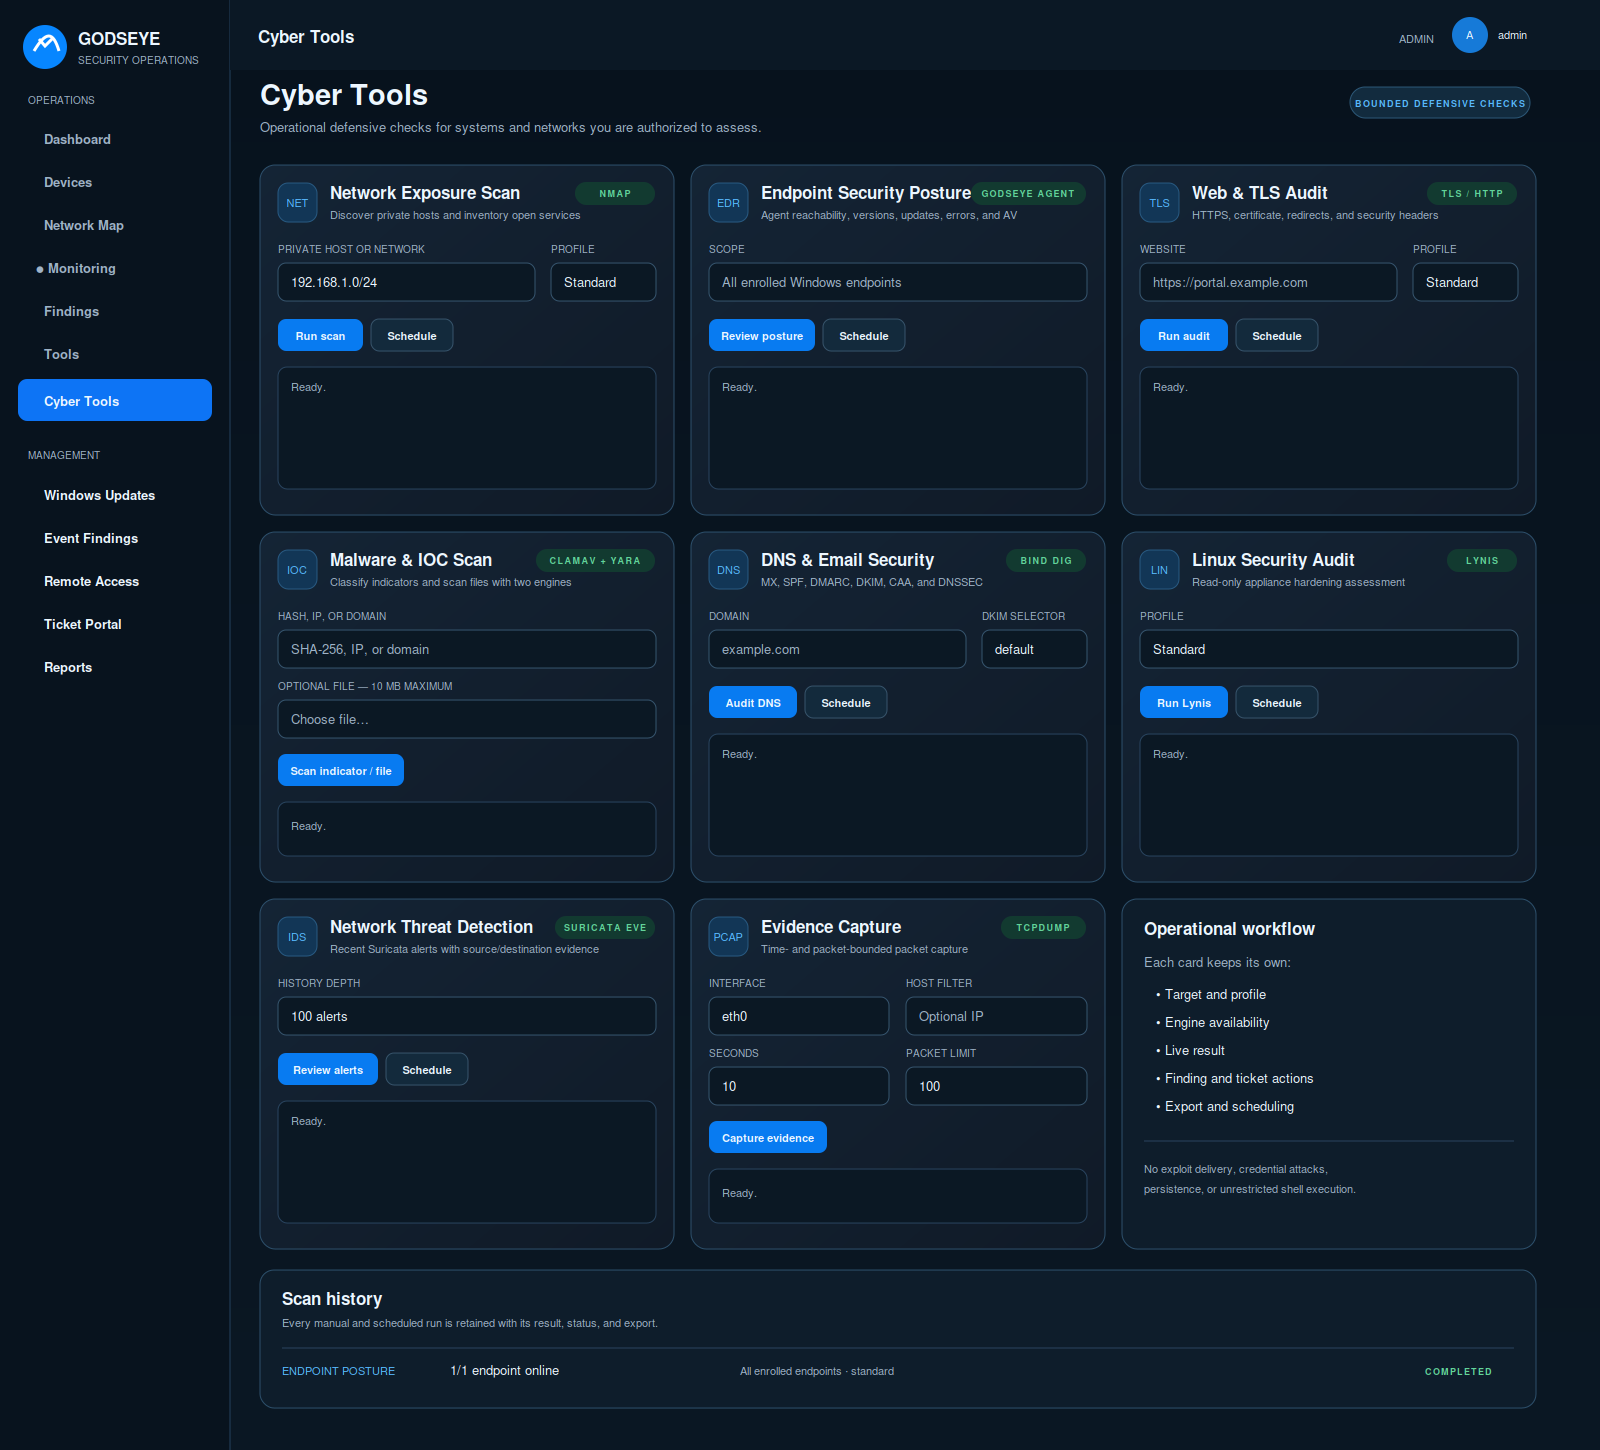
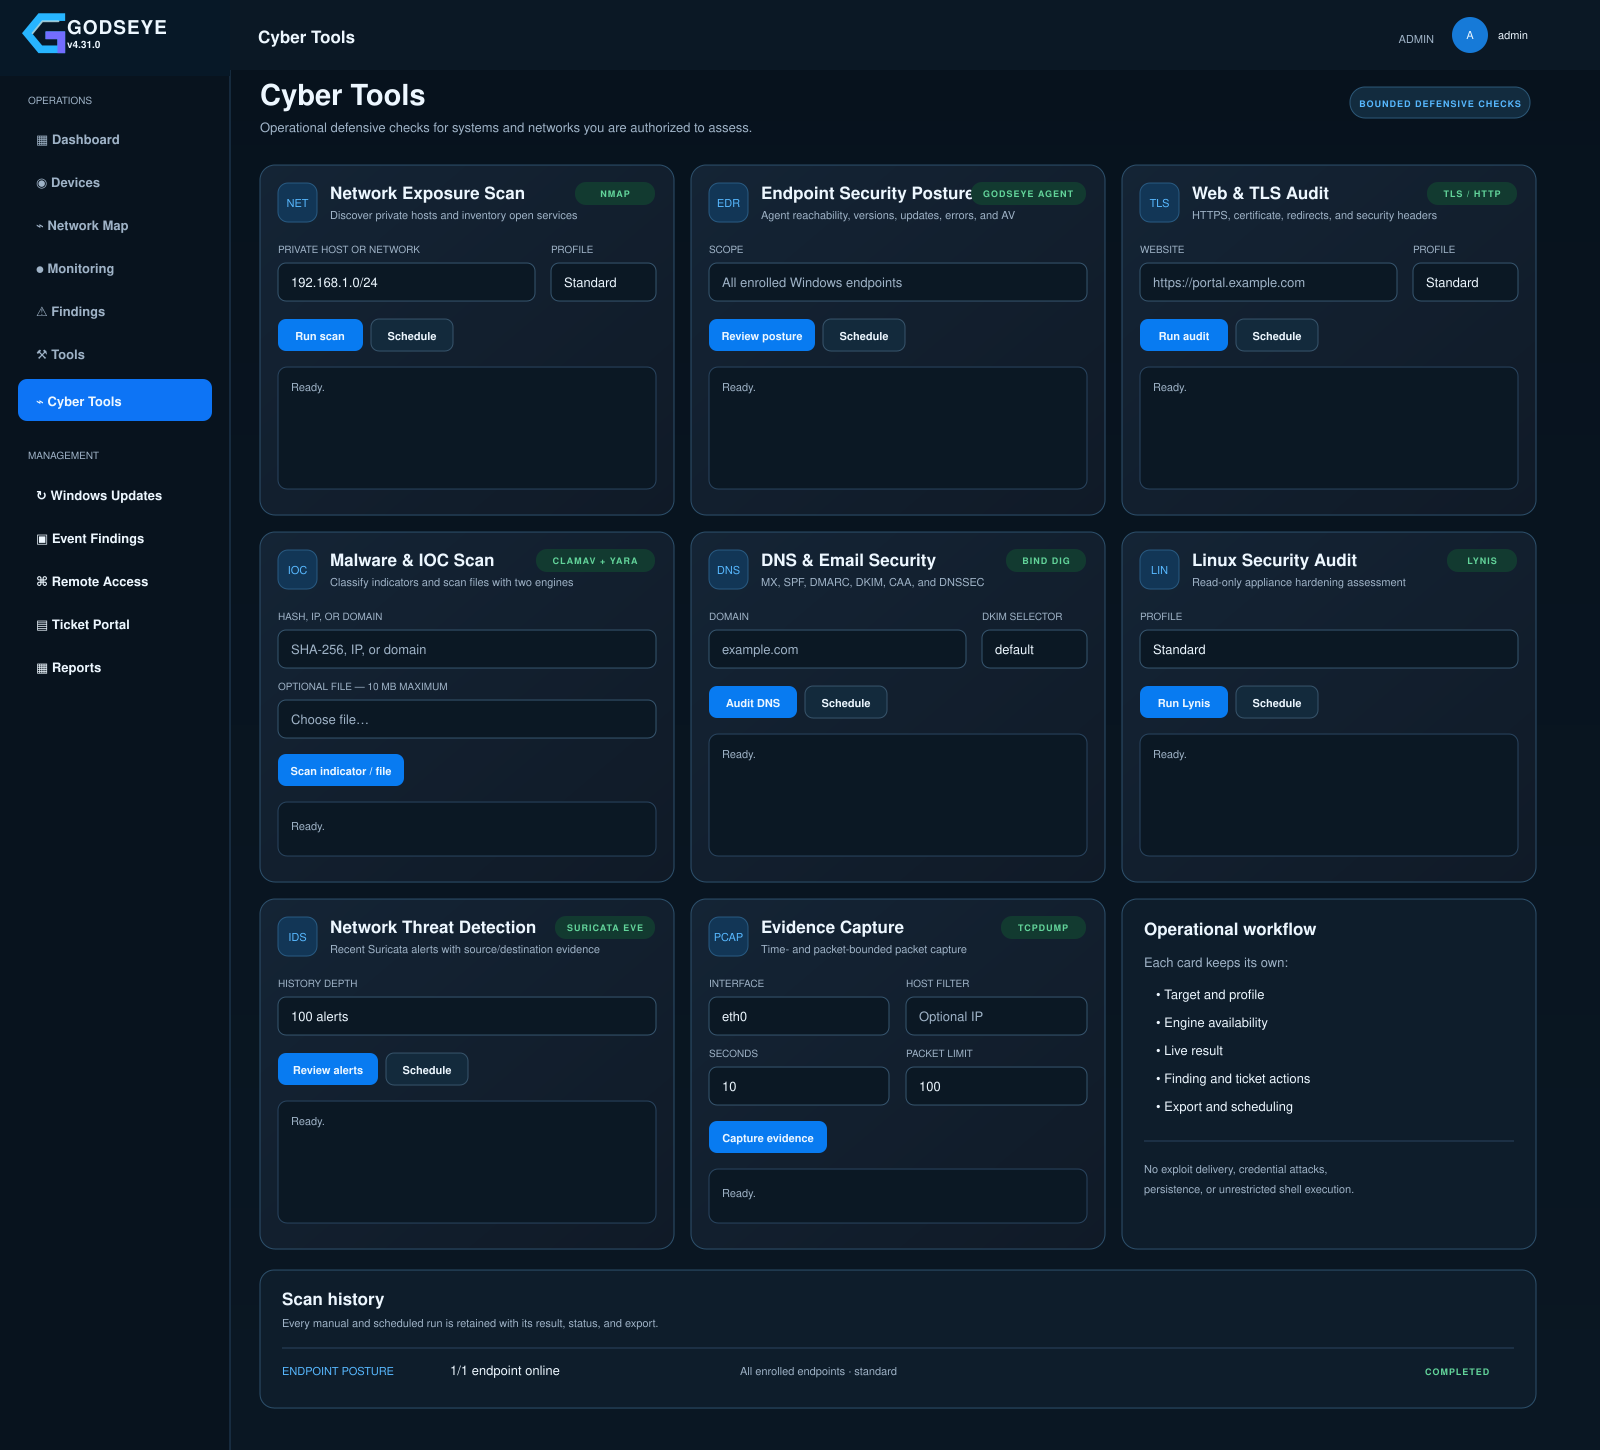
Refresh GODSEYE screenshot branding and Cyber Tools guide

diff --git a/tests/test_v430_ui_release.py b/tests/test_v430_ui_release.py
@@ -3,21 +3,19 @@ from pathlib import Path
 ROOT = Path(__file__).resolve().parents[1]
 
 
-def test_readme_uses_actual_v430_screenshot_gallery():
+def test_readme_uses_current_branded_screenshot_gallery():
     readme = (ROOT / 'README.md').read_text(encoding='utf-8')
     shots = [
-        'v430-dashboard.png',
-        'v430-devices.png',
-        'v430-calendar.png',
-        'v430-email.png',
-        'v430-system-health.png',
-        'v430-remote-access.png',
+        'v431-dashboard-map-logo.png',
+        'v431-cyber-tools-overview.png',
+        'v431-cyber-tools-working.png',
     ]
     for shot in shots:
         assert f'docs/screenshots/{shot}' in readme
         path = ROOT / 'docs' / 'screenshots' / shot
         assert path.exists() and path.stat().st_size > 20_000
-    assert 'captured from the actual v4.30 application' in readme
+    assert 'running-app capture' in readme
+    assert 'UI previews' in readme
 
 
 def test_readme_release_zip_install_and_first_run_admin_are_current():

diff --git a/README.md b/README.md
@@ -4,45 +4,36 @@
 
 GODSEYE v4.31 keeps the v4.30 interface and adds a redesigned Quick Assist-style Remote Access handshake. The Windows Agent retains token enrollment and Event Findings collection while handing approved screen sharing to a dedicated interactive-session helper. Remote sessions begin view-only and require a separate local-user approval before mouse or keyboard control is enabled.
 
-![GODSEYE v4.30 Dashboard](docs/screenshots/v430-dashboard.png)
+![GODSEYE v4.31 Dashboard with the approved G logo](docs/screenshots/v431-dashboard-map-logo.png)
 
 ## v4.31 interface
 
-The v4.30 interface uses the dark GODSEYE visual system across the real application. The five approved visual references are kept in `docs/design-reference/`; the images embedded here were captured from the running application with demonstration data. The shared masthead, navigation, summary cards, tools, reports, calendar, email, traffic, and health workspaces use a consistent outlined icon set. Page layouts are constrained to the viewport so normal desktop use does not require a page-level horizontal scrollbar.
+The dark GODSEYE interface uses the approved angular G logo and shows the current build number. Navigation, summaries, network map, tools, reporting, calendar, email, and system health share the same visual system. Authentication screens include **Powered By: MSAPGROUP.LLC**. The dashboard image above is a running-app capture with disposable demonstration data; it is not included in the installation database.
 
-The application and authentication screens use the angular GODSEYE “G” mark with the current build number. Every authentication screen carries the footer attribution **Powered By: MSAPGROUP.LLC**.
+The Dashboard Network Map Overview displays the world view, site markers, and live Sites, Devices, Offline, and Active Alerts totals. Choose **Topology** or **World** in its map switch, or open the full Network Map page. Devices supports inventory filtering and details; Calendar and Email require their respective integrations for external accounts; Remote Access requires an enrolled Windows Agent and explicit approval on the endpoint.
 
-The Dashboard Network Map Overview matches the geographic reference card and defaults to a detailed world silhouette with recognizable coastlines, route lines, colored site markers, and live Sites, Devices, Offline, and Active Alerts totals. The map sits left while the compact statistics and full-map action occupy the right column. Use the subtle **Topology / World** switch inside the map to change views; GODSEYE remembers the selection.
+### Cyber Tools
 
-### Devices and inventory
+![GODSEYE v4.31 Cyber Tools cards with the approved G logo](docs/screenshots/v431-cyber-tools-overview.png)
 
-![GODSEYE v4.30 Devices](docs/screenshots/v430-devices.png)
+Open **Cyber Tools** from the Operations sidebar. Each of the eight cards has its own inputs, availability badge, run button, and result. Enter only a target you administer, choose a profile where offered, and run the check. Engine availability reflects what is installed and configured on the appliance.
 
-Discover, identify, classify, rename, and investigate devices while preserving the original GODSEYE inventory and discovery behavior. Filter by status, type, and classification; select a row to see its live device details.
+| Card | How to use it |
+| --- | --- |
+| Network Exposure Scan | Enter a private host or network, choose Quick, Standard, or Deep, then run a bounded Nmap scan. |
+| Endpoint Security Posture | Enroll a Windows Agent, then review endpoint reachability, version, updates, errors, and malware scan state. |
+| Web & TLS Audit | Enter a website URL and profile to check HTTPS, certificate, redirects, and response headers. |
+| Malware & IOC Scan | Enter a hash, IP, or domain; optionally choose a file up to 10 MB for ClamAV and YARA analysis. |
+| DNS & Email Security | Enter a domain and optional DKIM selector to inspect address, MX, SPF, DMARC, DKIM, CAA, and DNSSEC records. |
+| Linux Security Audit | Choose an audit profile and run the read-only Lynis check on the GODSEYE appliance. |
+| Network Threat Detection | Choose how many alerts to review from a configured Suricata EVE feed. |
+| Evidence Capture | Choose a validated interface, optional host IP, duration up to 15 seconds, and packet limit up to 500; capture a PCAP. |
 
-### Calendar and maintenance planning
+After a completed run, use the card actions to create a Finding or Ticket, export the stored JSON result, or schedule supported checks. Review past runs in **Scan history**. File uploads and packet capture cannot be scheduled. See [Cyber Tools configuration](docs/TOOLS.md) for engine setup and limits.
 
-![GODSEYE v4.30 Calendar](docs/screenshots/v430-calendar.png)
+![Illustrative v4.31 Cyber Tools result and workflow preview](docs/screenshots/v431-cyber-tools-working.png)
 
-Plan maintenance, tickets, reviews, and operational work from the built-in calendar, with Google Calendar and Microsoft 365 integrations available when configured.
-
-### Email workspace
-
-![GODSEYE v4.30 Email](docs/screenshots/v430-email.png)
-
-Connect Gmail or Microsoft 365 and work with operational mail, attachments, replies, drafts, and generated GODSEYE reports without leaving the appliance UI.
-
-### System Health
-
-![GODSEYE v4.30 System Health](docs/screenshots/v430-system-health.png)
-
-System Health brings appliance status, resource usage, diagnostics, backups, retention, updates, HTTPS, metrics security, and remediation controls into the same v4.30 interface.
-
-### Remote Access
-
-![GODSEYE v4.30 Remote Access](docs/screenshots/v430-remote-access.png)
-
-Remote Access is rebuilt around explicit local user approval. A session moves through request, approval, tray/capture readiness, and validated JPEG delivery before GODSEYE marks it active. The browser remote console includes the defined pointer, keyboard, wheel, screenshot, and disconnect controls without exposing an arbitrary remote shell.
+The Cyber Tools images are UI previews of the finalized card layout. The completed result in the second image is illustrative; scan findings depend on your appliance and targets. Other historical screenshots with the retired logo are no longer included in this release.
 
 ## Movable dashboard cards
 
@@ -182,7 +173,7 @@ Hardware-dependent behavior should also be validated on the target Raspberry Pi,
 
 ## Screenshots
 
-The screenshots shown above are captured from the actual v4.30 application using a disposable demonstration database. The current captures are under `docs/screenshots/` and the approved visual targets are under `docs/design-reference/`. Demonstration records are illustrative and are not installed with GODSEYE. Email shows the honest unconnected state until you configure a mailbox; Remote Access shows the honest empty state until an Agent is enrolled. See `docs/SCREENSHOTS.md` for the gallery and capture notes.
+The current branded Dashboard capture and Cyber Tools UI previews are under `docs/screenshots/`. See [the screenshot gallery](docs/SCREENSHOTS.md) for provenance. No demonstration inventory, scan result, or ticket shown in documentation is installed with GODSEYE.
 
 ## Documentation
 

diff --git a/docs/SCREENSHOTS.md b/docs/SCREENSHOTS.md
@@ -1,41 +1,21 @@
-# GODSEYE v4.31 Screenshots
+# GODSEYE v4.31 images
 
-These screenshots are captured from the actual GODSEYE v4.30 web application using a disposable demonstration database. The demonstration records are used only while capturing documentation images and are **not** included in a GODSEYE installation. Email has no connected mailbox and Remote Access has no enrolled Agent in this capture; those pages show their real setup states.
-
-The five user-approved visual targets are separately stored under `design-reference/` as `dashboard-target.png`, `devices-target.png`, `calendar-target.png`, `email-target.png`, and `system-health-target.png`. Those are design references, not photographs of the running application.
-
-## Cyber Tools operations console
-
-The Cyber Tools screens below are current v4.31 UI previews generated from the finalized card layout. The first shows all eight independent tools; the second shows a completed Endpoint Security Posture result and the Finding, Ticket, Export, schedule, and history workflow. Tool availability badges are populated dynamically on the installed appliance.
-
-![GODSEYE v4.31 Cyber Tools card overview](screenshots/v431-cyber-tools-overview.png)
-
-![GODSEYE v4.31 Cyber Tools working result](screenshots/v431-cyber-tools-working.png)
+The Dashboard is a capture from the running v4.31 app with disposable demonstration data. The Cyber Tools images are UI previews of the current eight-card layout, using the approved angular G lockup. The example result is illustrative; tool availability and live results depend on the installed appliance. No demonstration data ships with the server.
 
 ## Dashboard
 
-![GODSEYE v4.30 Dashboard](screenshots/v430-dashboard.png)
+![Current v4.31 Dashboard](screenshots/v431-dashboard-map-logo.png)
 
-## Devices
+## Cyber Tools overview
 
-![GODSEYE v4.30 Devices](screenshots/v430-devices.png)
+![Eight independent Cyber Tools cards](screenshots/v431-cyber-tools-overview.png)
 
-## Calendar
+## Cyber Tools result and workflow
 
-![GODSEYE v4.30 Calendar](screenshots/v430-calendar.png)
+![Illustrative card result, actions, and history](screenshots/v431-cyber-tools-working.png)
 
-## Email
+## Network map detail
 
-![GODSEYE v4.30 Email](screenshots/v430-email.png)
+![Network map overview card](screenshots/v431-network-map-card.png)
 
-## System Health
-
-![GODSEYE v4.30 System Health](screenshots/v430-system-health.png)
-
-## Remote Access
-
-![GODSEYE v4.30 Remote Access](screenshots/v430-remote-access.png)
-
-## Additional operational screens
-
-The release also retains earlier running-app captures for [Network Map](screenshots/dark-network-map.png), [Monitoring](screenshots/dark-monitoring.png), [Findings](screenshots/dark-findings.png), [Integrations](screenshots/dark-integrations.png), [Reports](screenshots/dark-reports.png), [Event Findings](screenshots/dark-event-findings.png), [Ticket Portal](screenshots/dark-ticket-portal.png), [Network Tools](screenshots/dark-network-tools.png), [Windows Agent](screenshots/dark-windows-agent.png), and [Windows Agent Installer](screenshots/dark-windows-agent-installer.png). The `v430-*` images above are the current running-app captures; the `dark-*` images are earlier captures, and the separate `design-reference/` images are the approved visual targets.
+For target fields, profiles, engine availability, schedule limits, and post-run actions, see [Cyber Tools](TOOLS.md).

diff --git a/EVENT_FINDINGS_TICKET_PORTAL_V417_RELEASE_NOTES.md b/EVENT_FINDINGS_TICKET_PORTAL_V417_RELEASE_NOTES.md
@@ -31,10 +31,9 @@
 - Ticket actions are audited.
 
 ## Screenshots
-- Adds `docs/screenshots/dark-event-findings.png`.
-- Adds `docs/screenshots/dark-ticket-portal.png`.
-- Refreshes `docs/screenshots/dark-calendar.png` with the linked-ticket workflow.
 - Refreshes the dark-mode overview montage.
 
 ## Security / validation note
 Real Windows hosts and WinRM hardware/network conditions are not available in the build container. Automated tests validate filtering, bookmarks, event classification, finding deduplication, ticket/calendar workflow, encryption plumbing, API/UI integration, and regression behavior. A first live Windows pull should be validated on the target Raspberry Pi and trusted Windows LAN.
+
+Historical screenshots from this release were retired during the v4.31 branding refresh. See `docs/SCREENSHOTS.md` for the current image gallery.

diff --git a/REPORT_DELETE_EMAIL_CLIENT_V416_RELEASE_NOTES.md b/REPORT_DELETE_EMAIL_CLIENT_V416_RELEASE_NOTES.md
@@ -20,10 +20,10 @@
 - `GODSEYE_PUBLIC_URL` is supported for OAuth callback URL generation behind HTTPS/reverse proxy.
 
 ## Screenshots
-- Adds `docs/screenshots/dark-email.png`.
-- Refreshes `docs/screenshots/dark-reports.png` to show report deletion and Email Report.
 - Refreshes the dark-mode overview montage.
 
 ## Validation
 - Automated tests cover schema, OAuth/security plumbing, Report History deletion, Gmail/Microsoft endpoints, dark UI, and report-email attachment generation.
 - Live Gmail and Microsoft 365 account authorization is not performed in the build container.
+
+Historical screenshots from this release were retired during the v4.31 branding refresh. See `docs/SCREENSHOTS.md` for the current image gallery.

diff --git a/TICKET_ASSIGNEE_PICKER_V421_RELEASE_NOTES.md b/TICKET_ASSIGNEE_PICKER_V421_RELEASE_NOTES.md
@@ -15,9 +15,10 @@
 - Existing databases are migrated with a nullable-equivalent empty display name default; no account recreation is required.
 
 ## UI / screenshots
-- Adds `docs/screenshots/dark-ticket-assignee-picker.png`.
 - Keeps the dark screenshot documentation synchronized.
 
 ## Security
 - The ticket assignee directory exposes only user ID, username, display name, and role.
 - User-management permissions remain unchanged.
+
+Historical screenshots from this release were retired during the v4.31 branding refresh. See `docs/SCREENSHOTS.md` for the current image gallery.

diff --git a/EVENT_FINDING_DELETE_V419_RELEASE_NOTES.md b/EVENT_FINDING_DELETE_V419_RELEASE_NOTES.md
@@ -15,4 +15,5 @@
 Deletion is **administrator-only**. Operators can continue to Recheck, Create Ticket, and Resolve according to existing permissions, but cannot delete findings.
 
 ## Screenshot
-`docs/screenshots/dark-event-findings.png` is refreshed to show the new selection and delete controls.
+
+Historical screenshots from this release were retired during the v4.31 branding refresh. See `docs/SCREENSHOTS.md` for the current image gallery.
